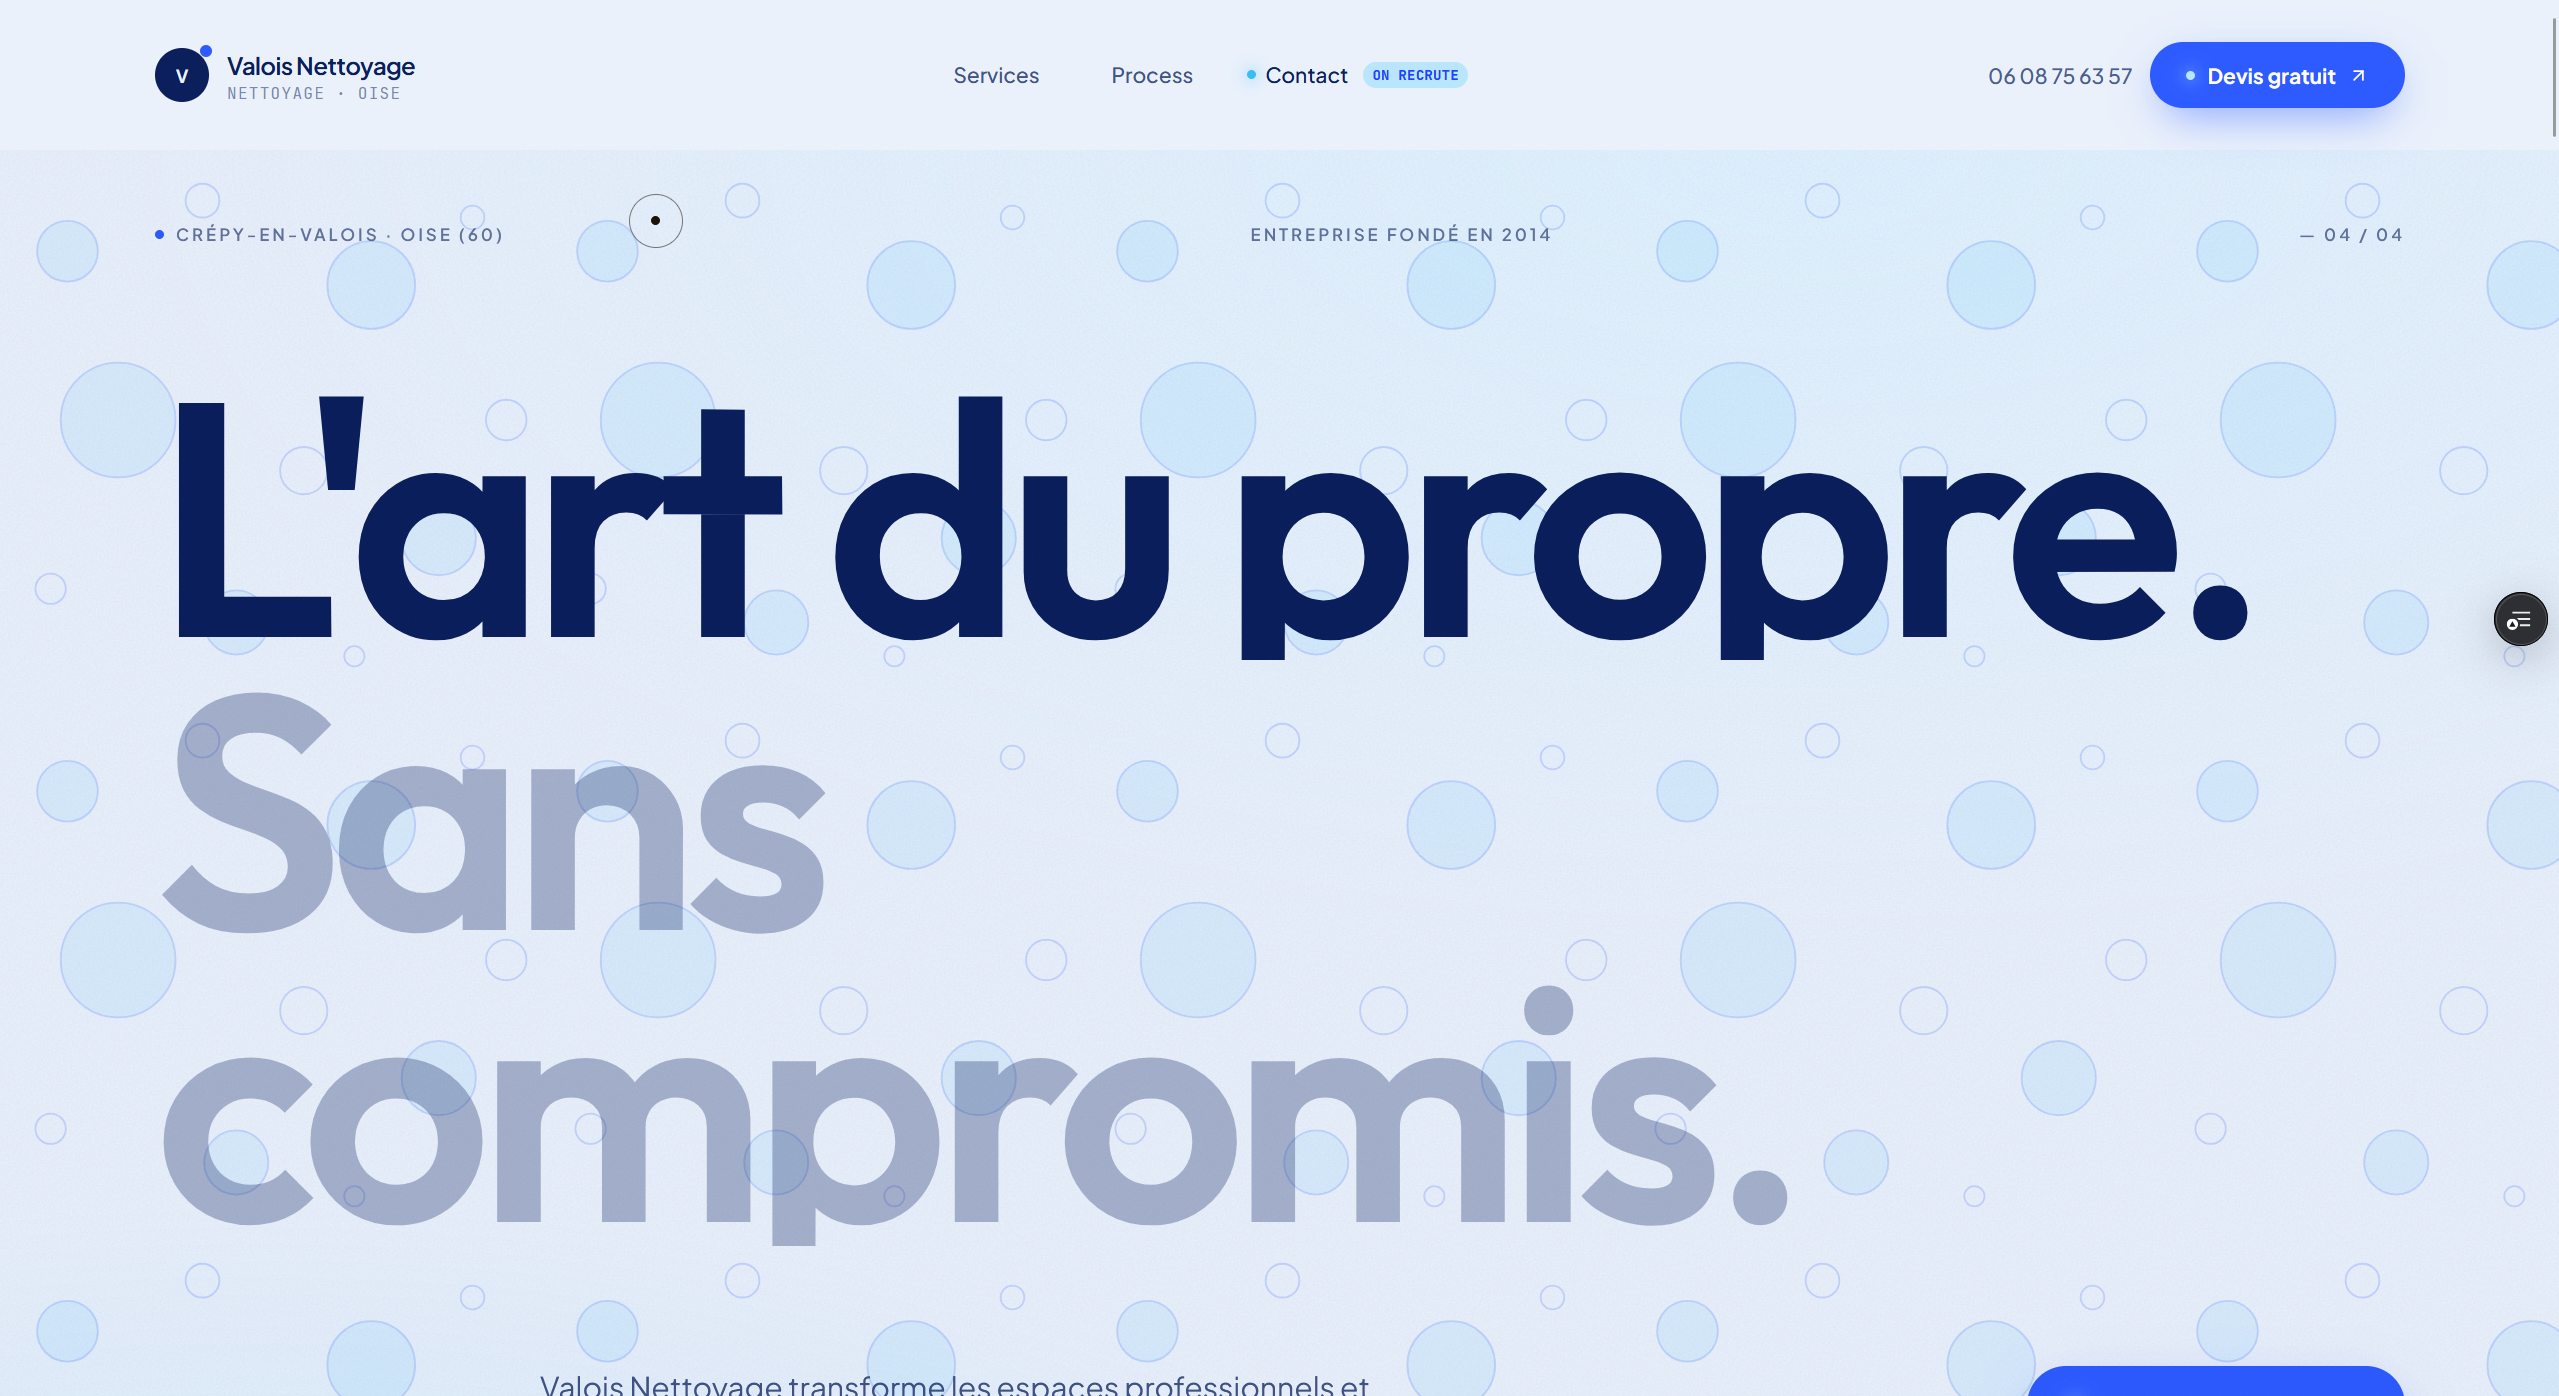
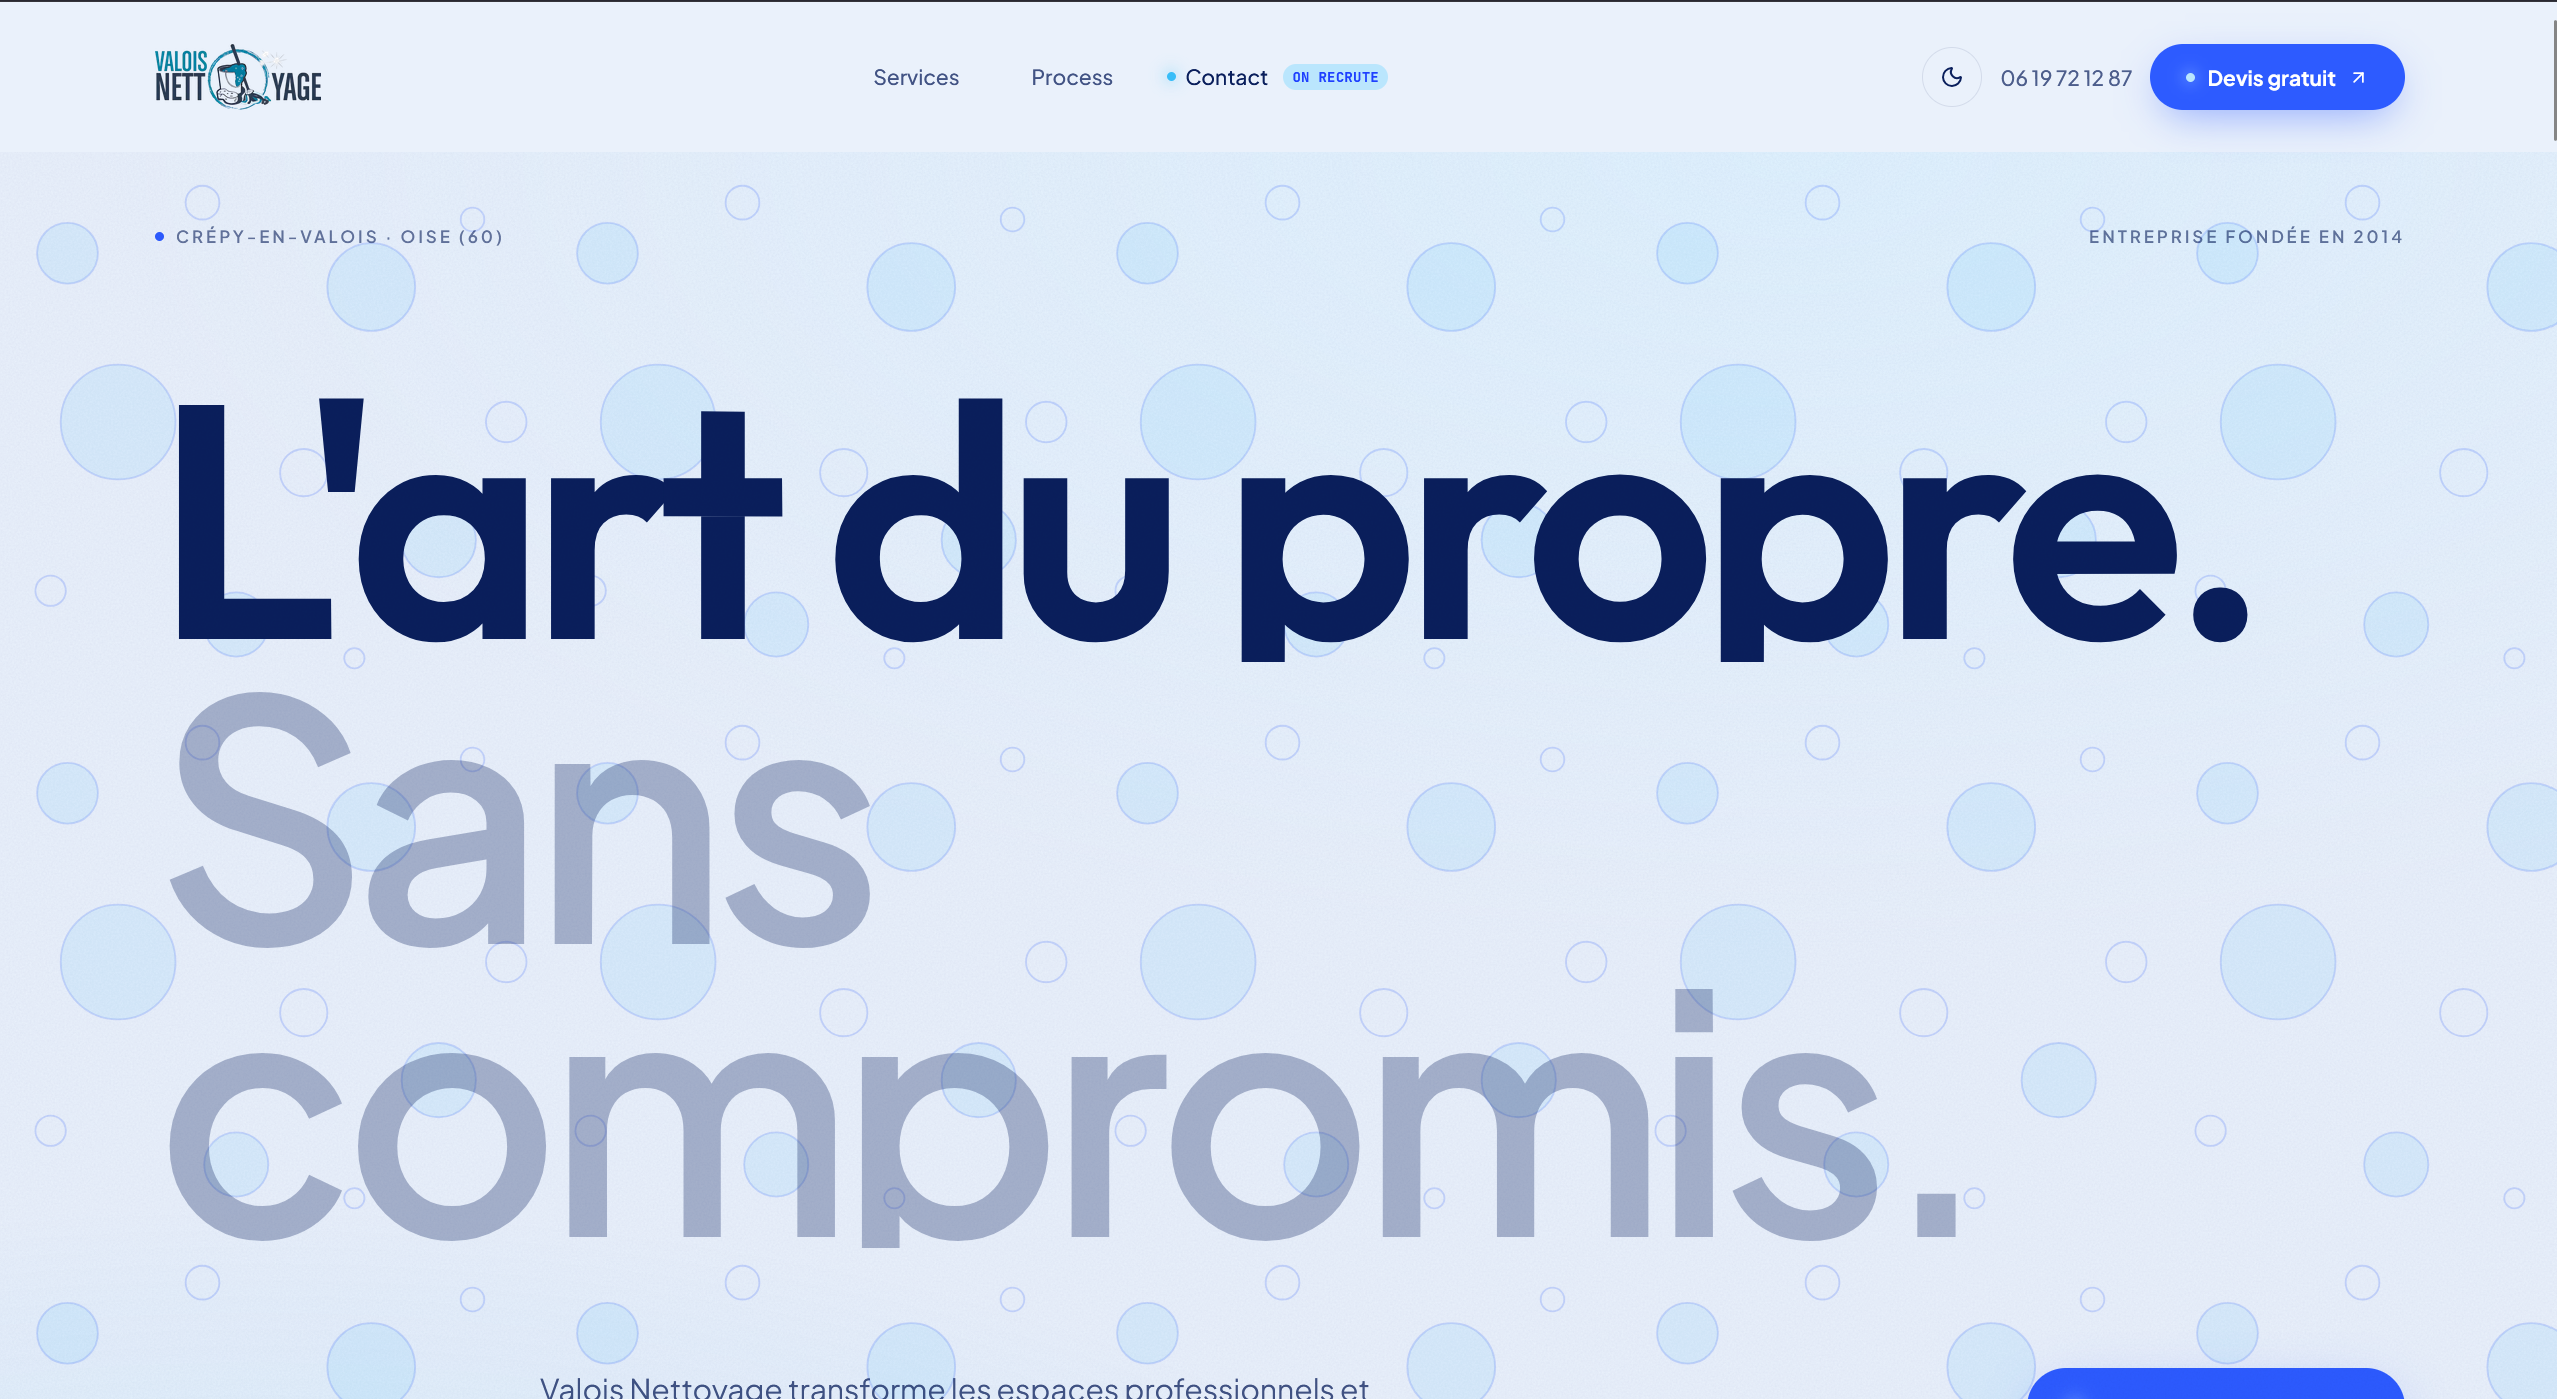
.

diff --git a/index.html b/index.html
@@ -1013,9 +1013,11 @@
           <div class="sport-layout">
             <article class="sport-card sport-card-climb reveal">
               <div class="sport-card-top">
+                <!--
                 <span class="sport-icon" aria-hidden="true"
                   ><i class="fas fa-mountain"></i
                 ></span>
+                -->
                 <h3 data-i18n="passion.climb.title">Escalade</h3>
               </div>
               <p data-i18n="passion.climb.desc">
@@ -1027,9 +1029,11 @@
 
             <article class="sport-card sport-card-calisthenics reveal">
               <div class="sport-card-top">
+                <!--
                 <span class="sport-icon" aria-hidden="true"
                   ><i class="fas fa-dumbbell"></i
                 ></span>
+                -->
                 <h3 data-i18n="passion.calisthenics.title">Calisthenics</h3>
               </div>
               <p data-i18n="passion.calisthenics.desc">

diff --git a/projects.data.js b/projects.data.js
@@ -127,6 +127,7 @@ window.portfolioProjectsConfig = {
       },
       images: [],
     },
+    /*
     {
       context: {
         fr: "Professionnel : En cours",
@@ -175,6 +176,7 @@ window.portfolioProjectsConfig = {
         },
       ],
     },
+    */
     /*
     {
       context: {
@@ -230,7 +232,7 @@ window.portfolioProjectsConfig = {
       },
       tags: ["JS", "React"],
       link: {
-        href: "https://valois-nettoyage.myboostlocal.com/",
+        href: "https://valoisnettoyage.fr/",
         targetBlank: true,
         label: { fr: "Voir le site", en: "View site" },
       },
